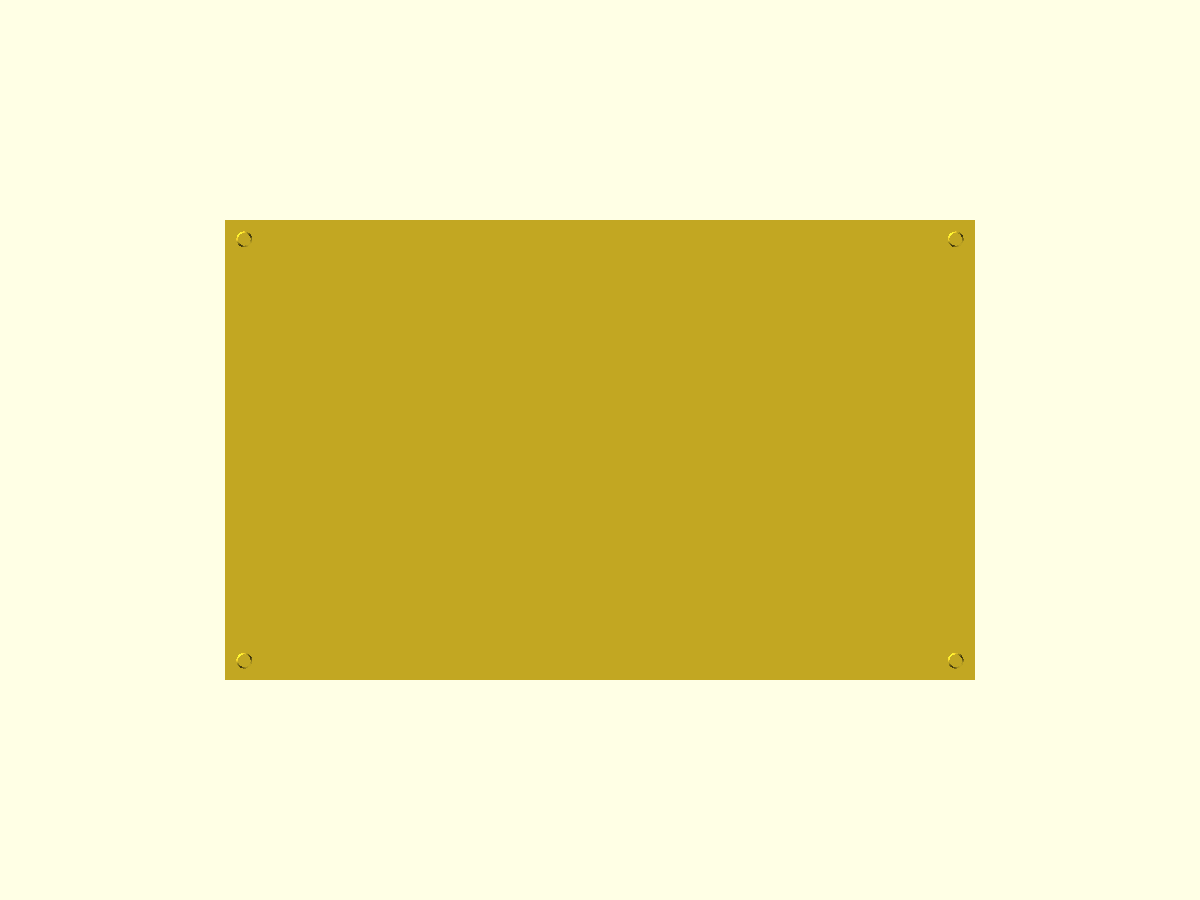
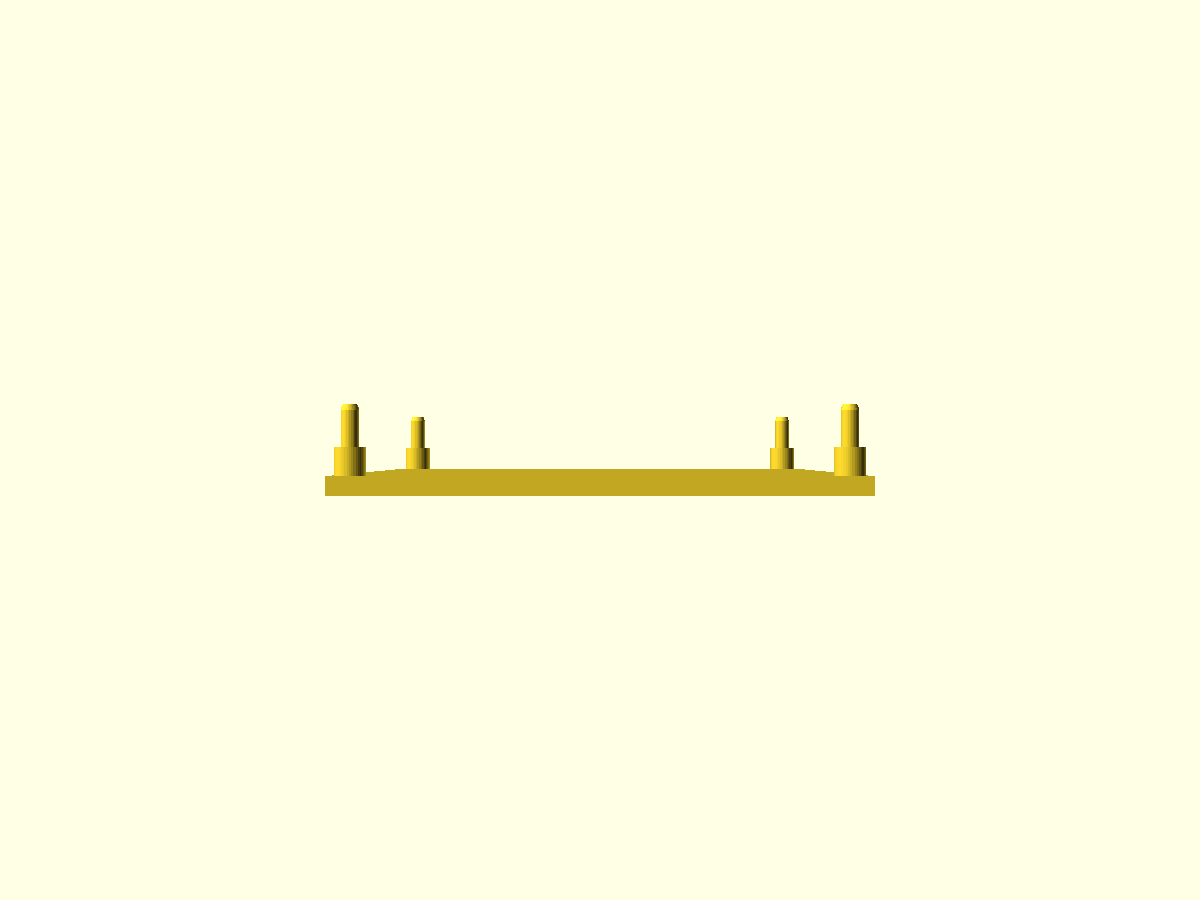
add plate, change preview .2 to xz

diff --git a/src/watch.ts b/src/watch.ts
@@ -52,7 +52,7 @@ const PNG_VIEWS: CamView[] = [
   // --camera = tx,ty,tz,rx,ry,rz,dist ; --viewall will frame the model
   { name: '0',     camera: '0,0,0,55,0,25,500',  projection: 'p' },
   { name: '1',   camera: '0,0,0,0,0,0,500',    projection: 'o' },
-  { name: '2', camera: '0,0,0,0,0,90,500',   projection: 'o' },
+  { name: '2', camera: '0,0,0,90,0,0,500',   projection: 'p' },
 ];
 
 function renderPng(scad: string, png: string, cam: CamView): Promise<void> {

diff --git a/2025-08-25-plate-cap-123/README.md b/2025-08-25-plate-cap-123/README.md
@@ -1,0 +1,24 @@
+# Plate Cap Ø123.6 (1 mm wall, 5 mm height)
+
+Параметрическая круглая крышка-колпак.
+
+- Файл модели: `plate-cap-123.scad`
+- Версия: 1.0
+
+## Параметры
+- Внутренний диаметр: 123.6 мм (с посадочным запасом `fit_extra_inner`)
+- Толщина стенки: 1.0 мм
+- Толщина верхней крышки: 1.0 мм
+- Внешняя высота: 5.0 мм
+- Радиусы скругления кромки: 1–2 мм (`radius_r`)
+
+## Рендер
+Включите/отключите `test_fragment` для печати тестовых вырезок.
+
+## Превью
+
+![plate-cap 0](plate-cap-123.0.png)
+
+![plate-cap 1](plate-cap-123.1.png)
+
+![plate-cap 2](plate-cap-123.2.png)
